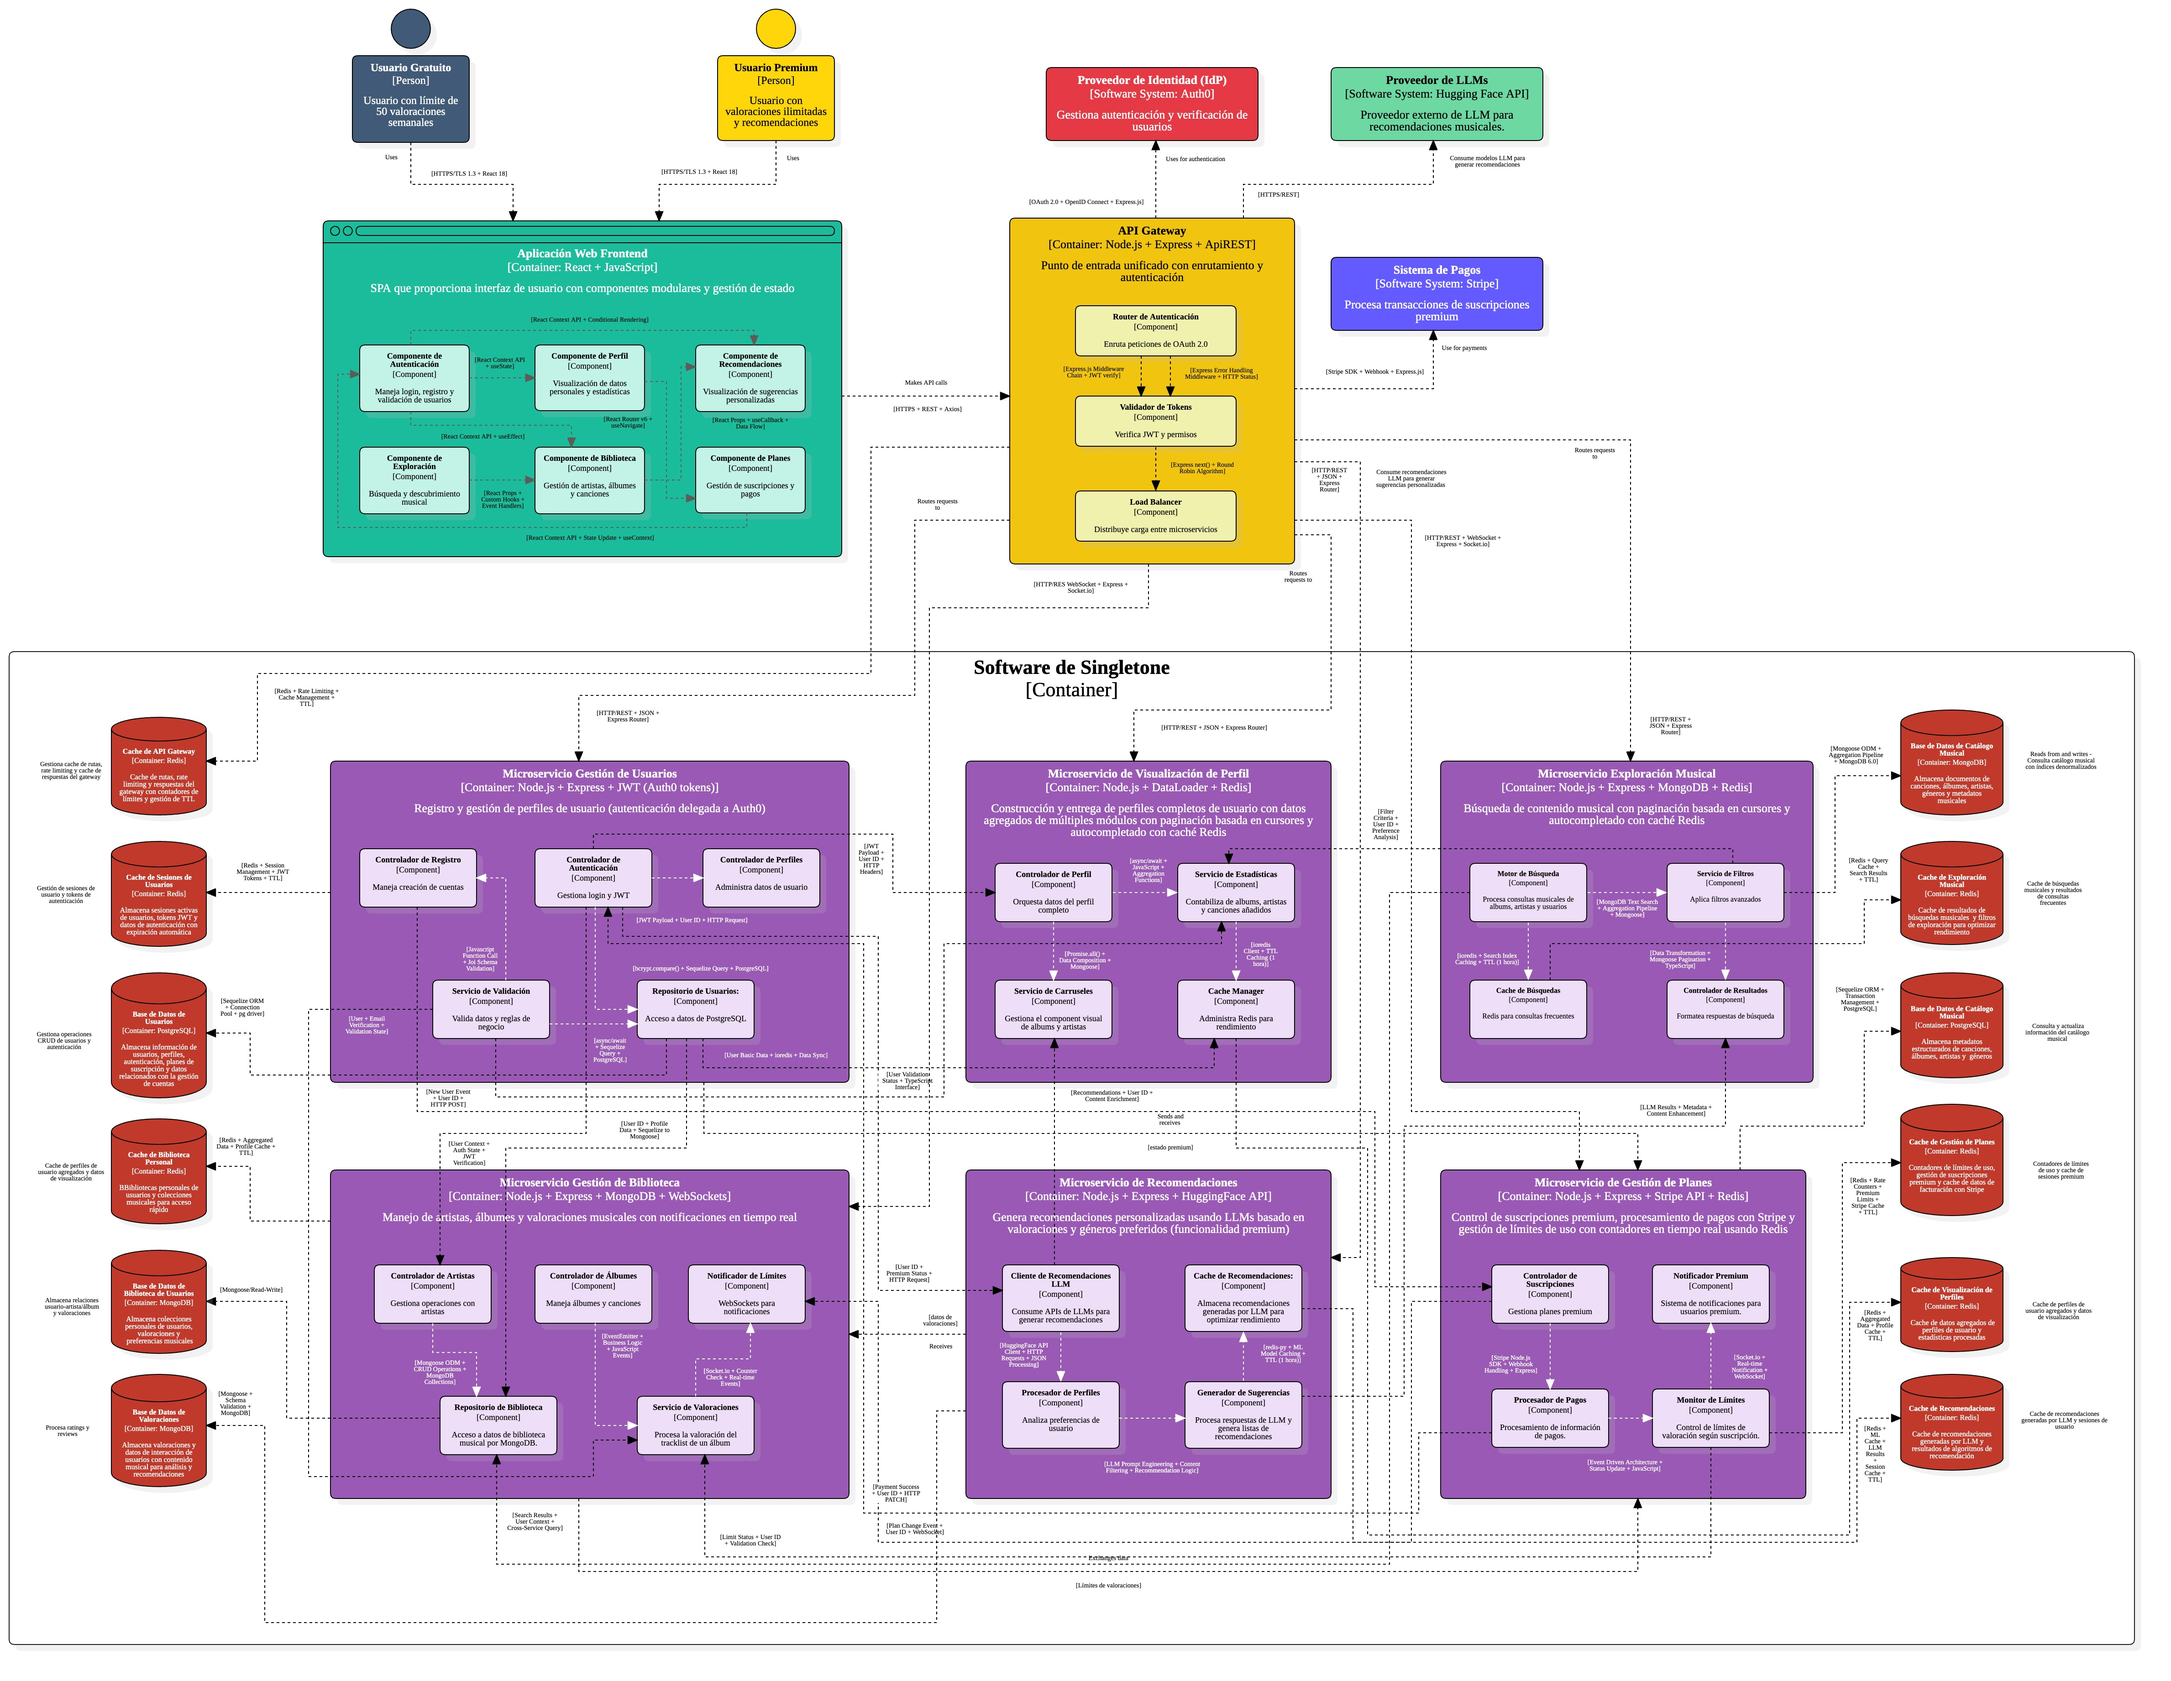
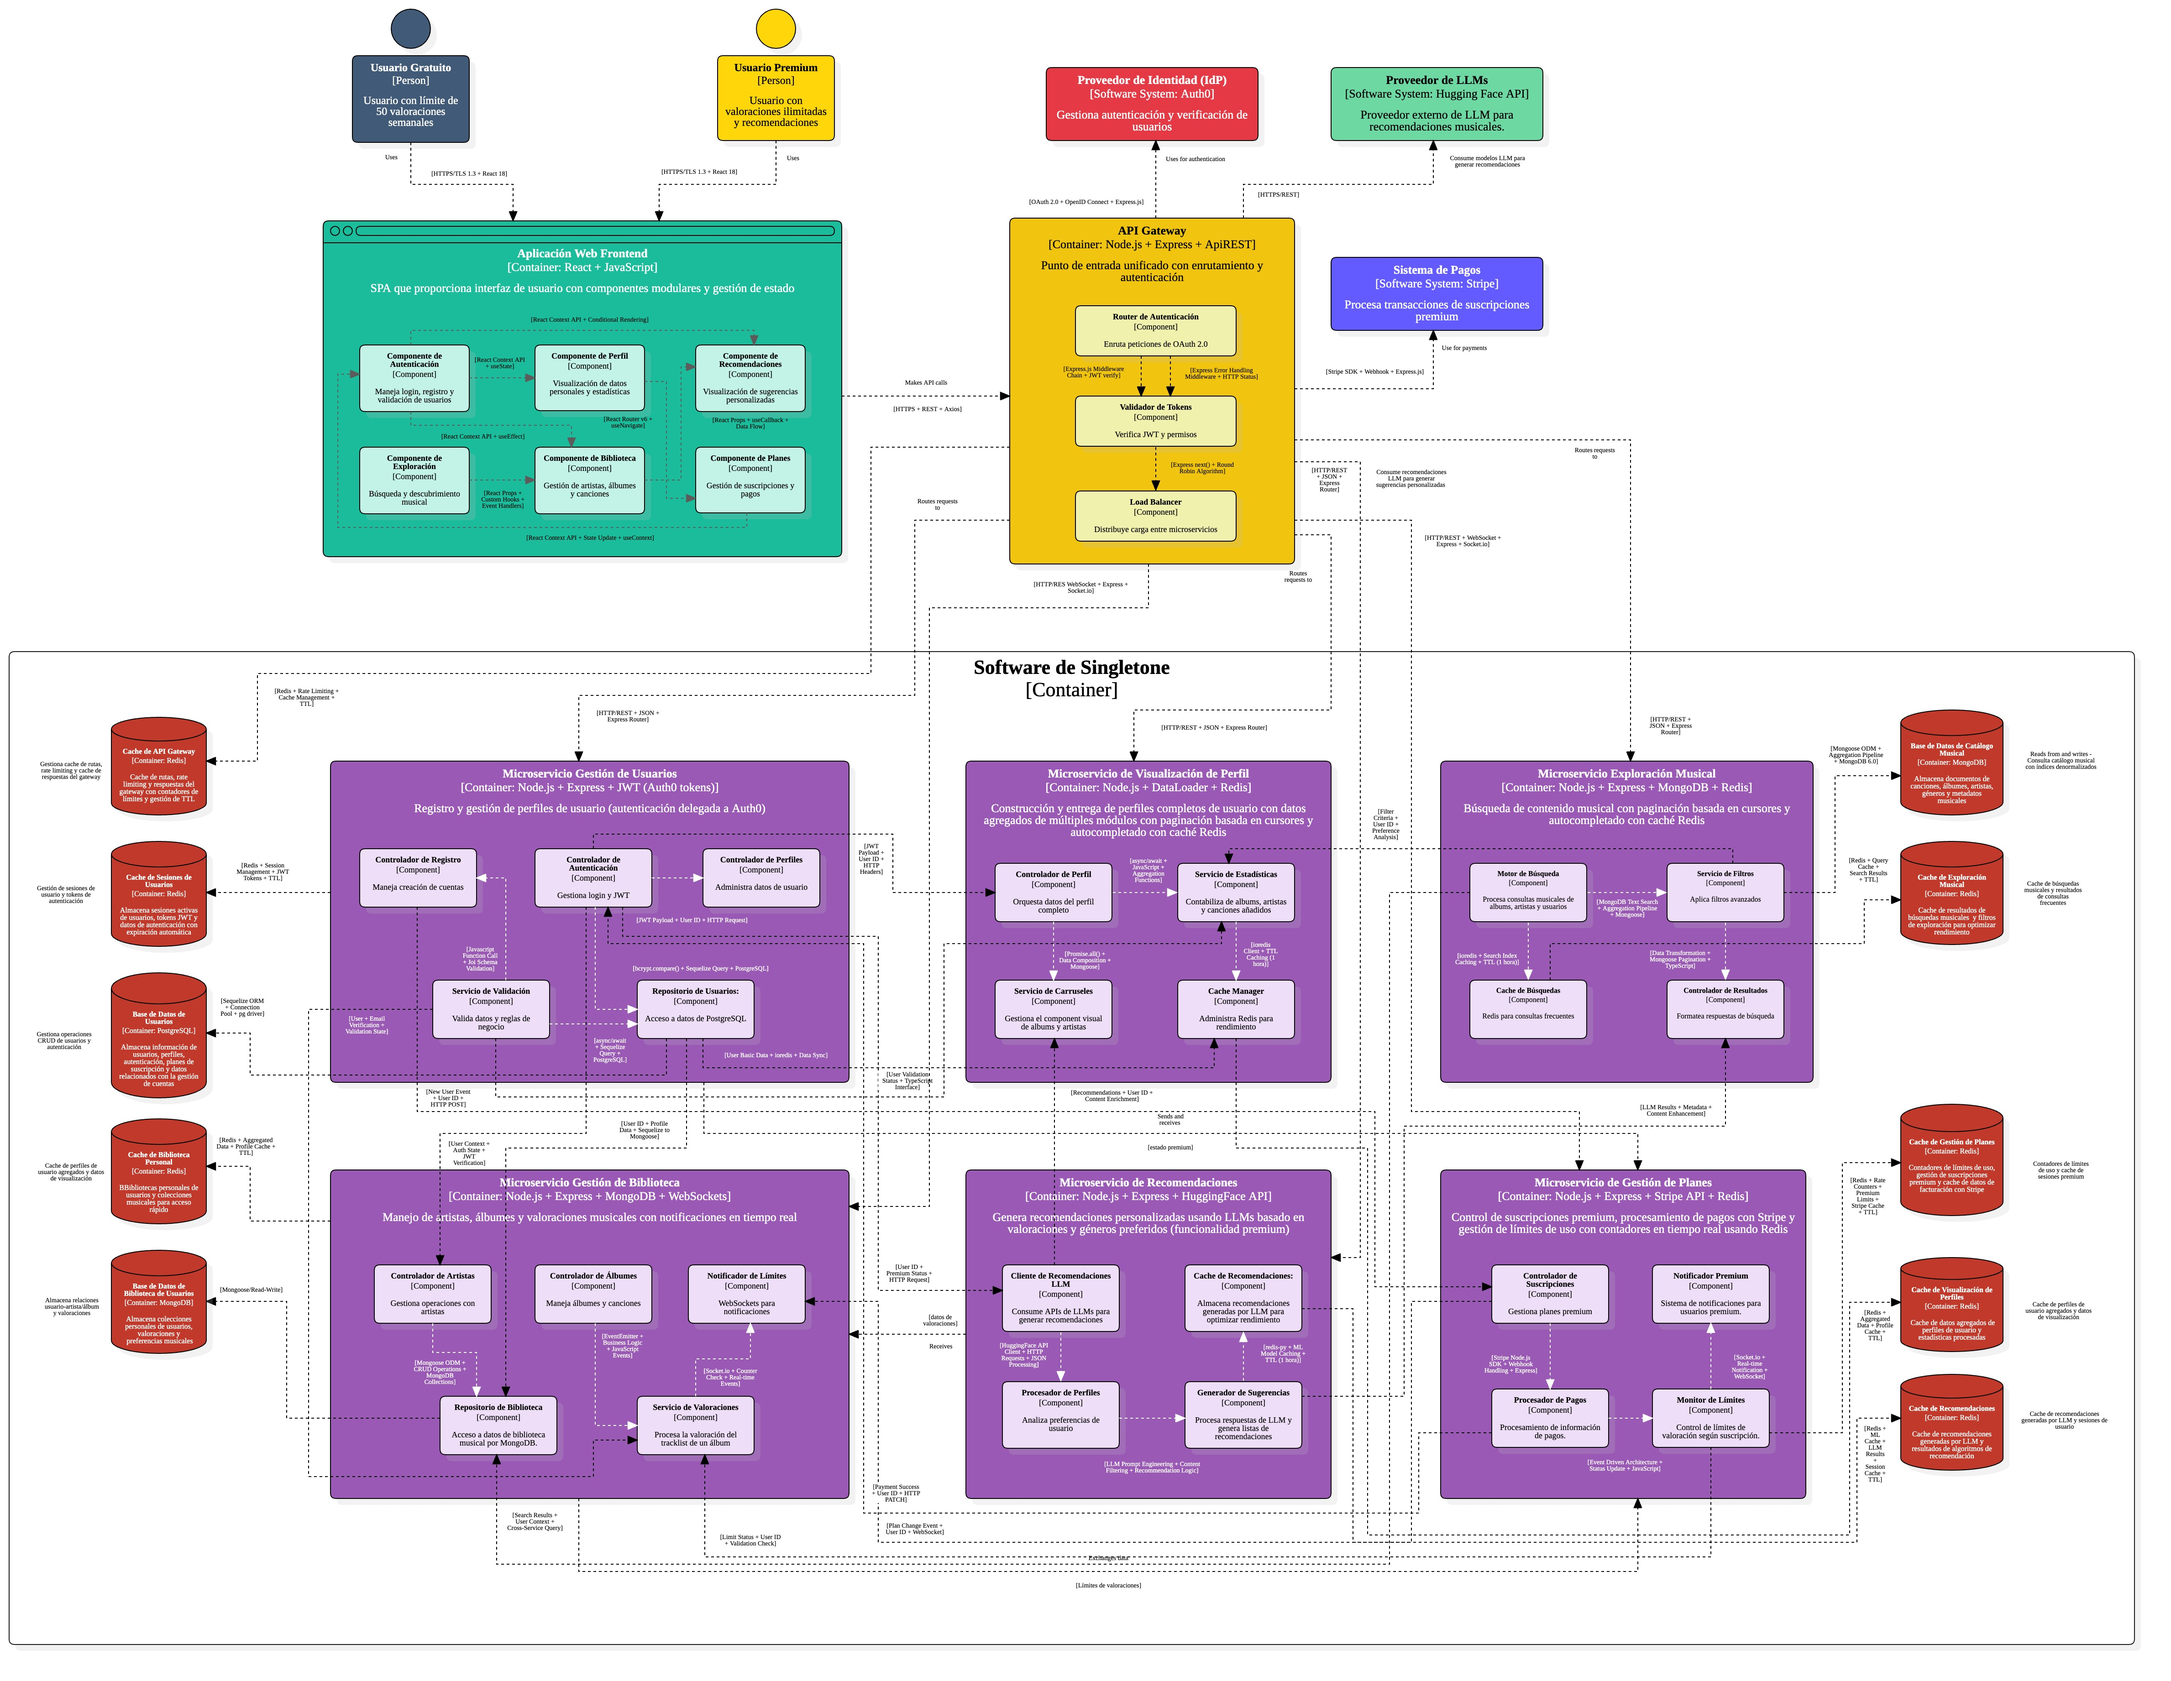
roudi: arreglando componente de diagrama y agregando el de despliegue.

Changed region(s): [[0.8713, 0.5619, 0.9336, 0.6555], [0.0311, 0.8116, 0.1245, 0.9053]]

diff --git a/6/5.2/5.2.md b/6/5.2/5.2.md
@@ -7,7 +7,7 @@ El presente diagrama representa una arquitectura de microservicios para software
 
 ## Usuarios
 
-- **Usuarios Gratuito**: Usuario con límite de 50 valoraciones semanales.
+- **Usuarios Gratuito**: Usuario con límite de 10 valoraciones mensuales.
 - **Usuarios Premium**: Usuario con valoraciones ilimitadas y recomendaciones.
 
 ## Aplicación Web Frontend

diff --git a/6/5.1/5.1.md b/6/5.1/5.1.md
@@ -7,7 +7,7 @@ A continuación, se muestra el diagram de contexto del aplicativo web SINGLETONE
 
 ## Actores
 
-- **Usuarios Gratuito**: Usuario con límite de 50 valoraciones semanales.
+- **Usuarios Gratuito**: Usuario con límite de 10 valoraciones mensuales.
 - **Usuarios Premium**: Usuario con valoraciones ilimitadas y recomendaciones.
 
 ## Sistema Central

diff --git a/6/5.4/5.4.md b/6/5.4/5.4.md
@@ -1,4 +1,6 @@
 # 5.4. Otras Vistas
 - [Volver al índice](/6/6.md)
 
-{ se agregará la vista de despliegue en el futuro }
+## Diagrama de Despliegue
+El presente diagrama muestra los componentes de la arquitectura y como se estarán desplegando.  
+![Diagrama de Despliegue](./diagrama_despliegue.jpg)
